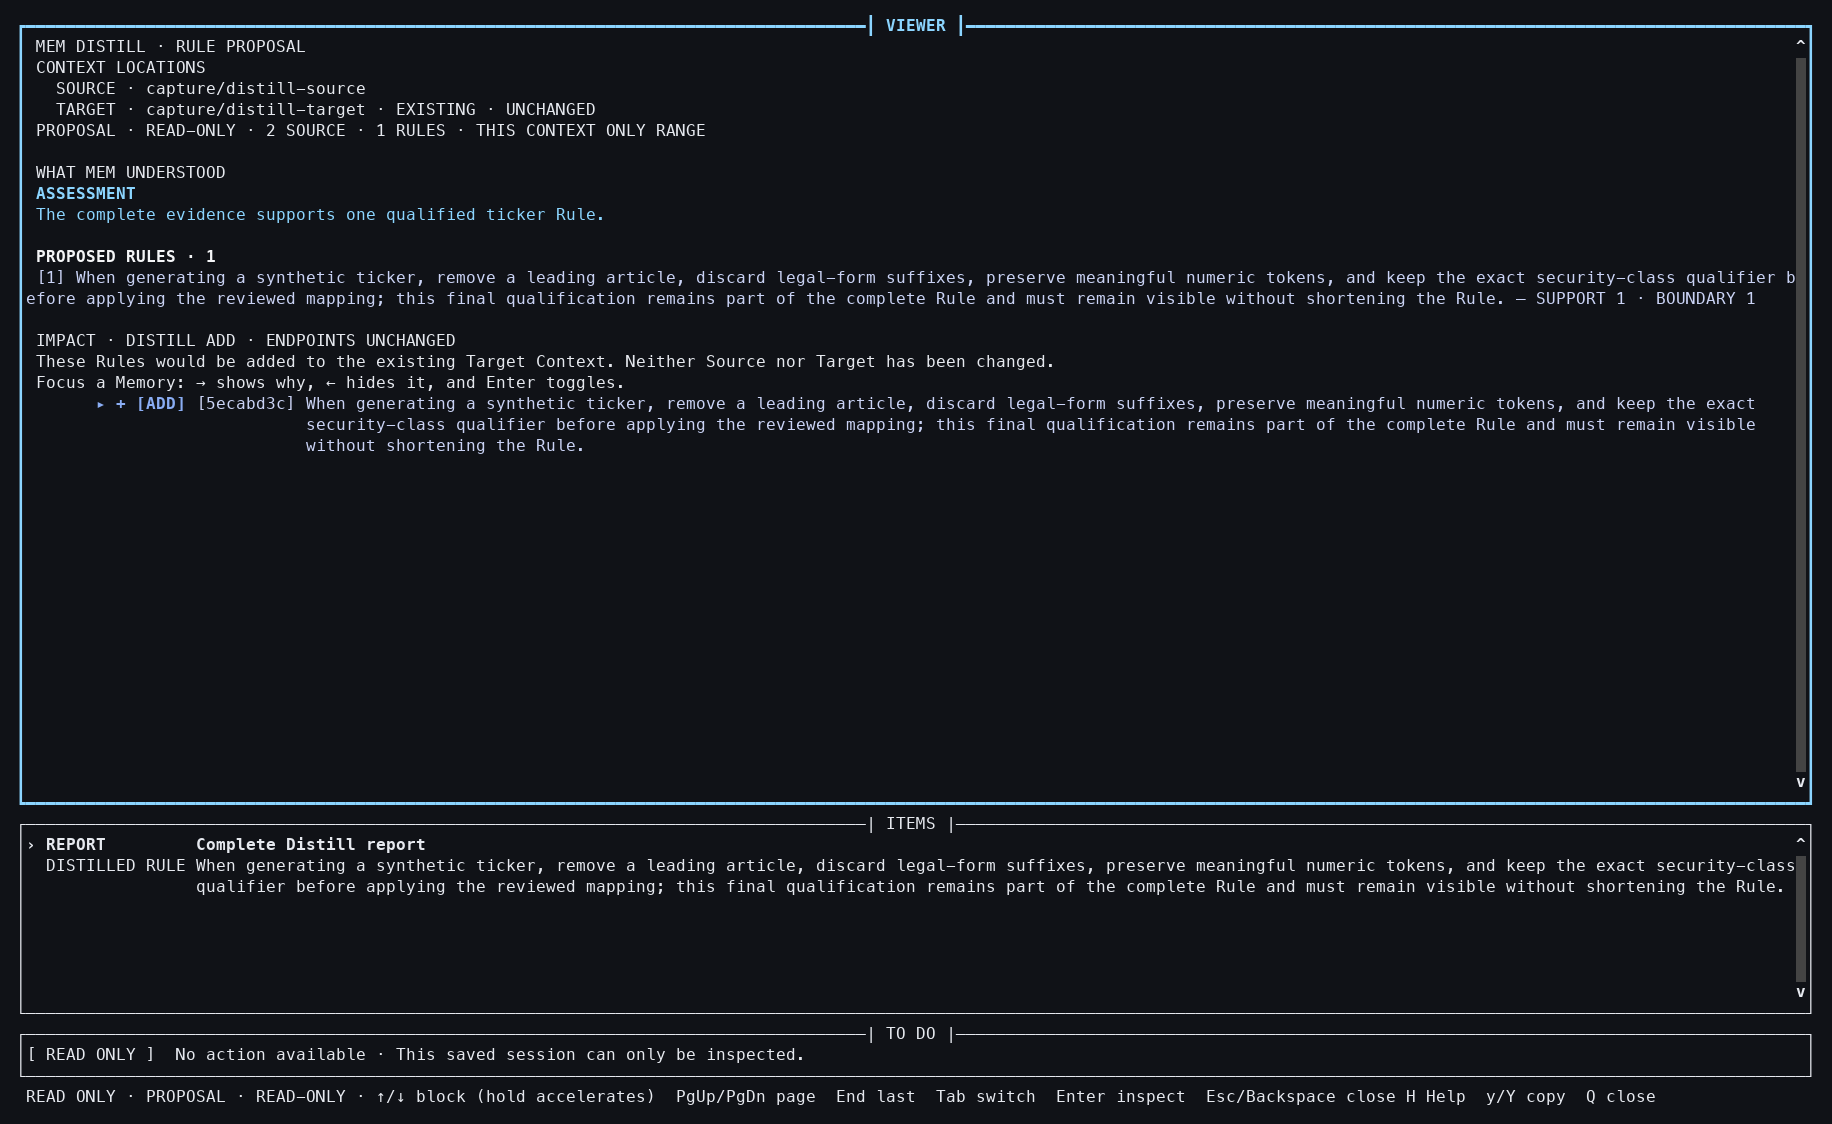
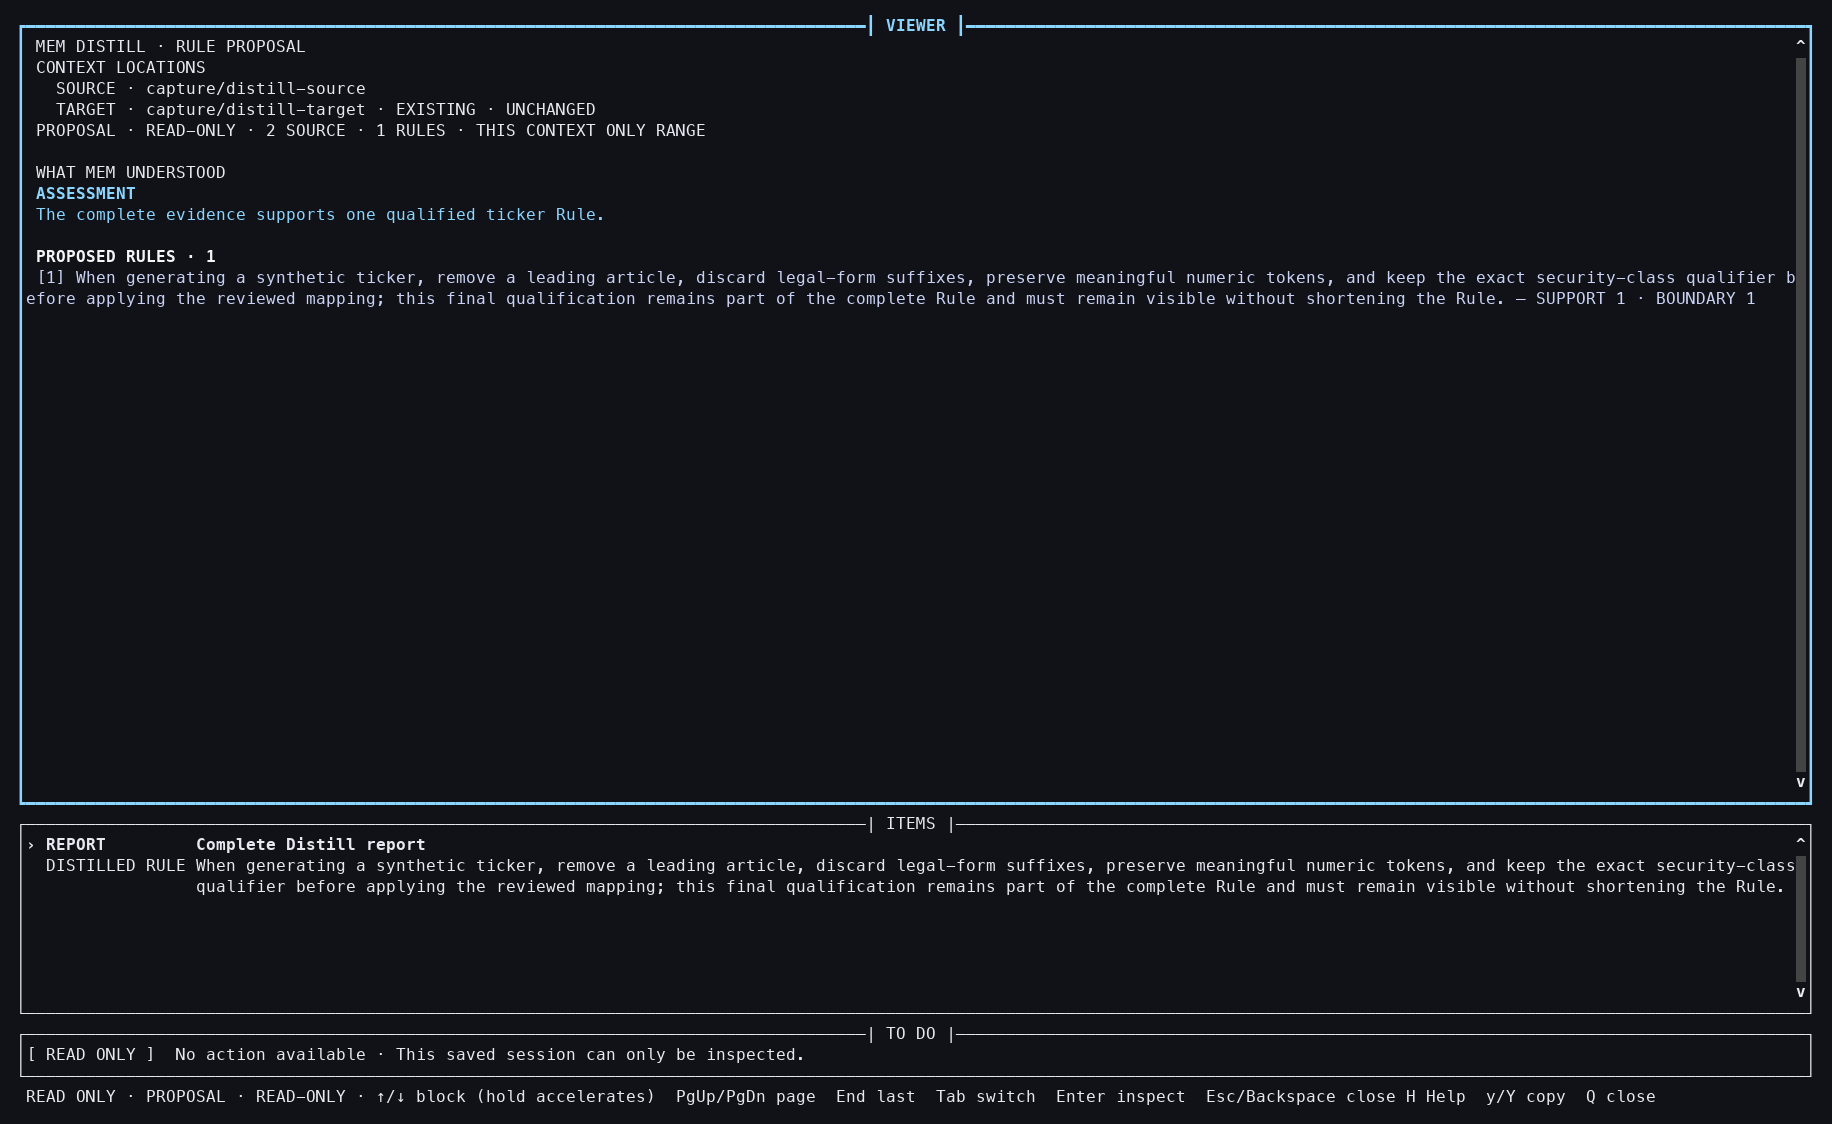
Keep Rule previews to one proposal catalog
Distill and Goal-to-Rules Elaborate now render generated Rules only under PROPOSED RULES. Their read-only Impact and generic Results ledgers are hidden because they repeated the same complete Memories as [ADD] rows without adding a decision boundary.

Rule detail, rationale, evidence, copy data, endpoint state, and close-time immutability checks remain available. Rules-to-Cases and mutation-oriented operations keep their distinct Impact ledgers. Tests and 180x52 color PTY evidence cover the single-catalog display and the retained Case boundary.

Changed region(s): [[0.0311, 0.2802, 0.6534, 0.4048], [0.6845, 0.3425, 0.9023, 0.4048], [0.6534, 0.3737, 0.6845, 0.4048]]

diff --git a/tests/test_compact_semantic_rule_rows.py b/tests/test_compact_semantic_rule_rows.py
@@ -67,6 +67,25 @@ class _LongElaborateProvider:
         )
 
 
+class _CaseElaborateProvider:
+    def complete(self, prompt, *, operation, output_schema=None):
+        assert operation == ELABORATE_OPERATION
+        return json.dumps(
+            {
+                "overview": "One boundary Case probes the supplied Rule.",
+                "cases": [
+                    {
+                        "proposition": "A preferred share class remains explicit.",
+                        "expected": "Keep the class qualifier.",
+                        "rationale": "The class can identify another security.",
+                        "case_role": "BOUNDARY",
+                        "source_rule_index": 1,
+                    }
+                ],
+            }
+        )
+
+
 def _distill_result(isolated_store):
     store = MemoryStore()
     source = ops.init("compact-rules/source")
@@ -110,6 +129,11 @@ def test_distill_impact_rule_row_is_compact_without_losing_detail(
 
     assert row == f"[1] {LONG_RULE} — SUPPORT 1 · BOUNDARY 1"
     assert "…" not in row
+    assert rendered.count(LONG_RULE) == 1
+    assert "IMPACT · DISTILL ADD" not in rendered
+    assert "[ADD]" not in rendered
+    assert presentation.view.show_results is False
+    assert presentation.show_impact_ledger is False
     assert presentation.view.items[0].summary == (
         "The full rationale remains in Rule detail."
     )
@@ -138,9 +162,34 @@ def test_elaborate_rule_rows_keep_complete_unverified_content() -> None:
         if line.strip().startswith("[1] ")
     ) == expected
     assert "…" not in expected
+    assert impact.count(LONG_RULE) == 1
+    assert "PROPOSED RULES · 1" in impact
+    assert "IMPACT · ELABORATE ADD" not in impact
+    assert "[ADD]" not in impact
+    assert presentation.view.show_results is False
+    assert presentation.show_impact_ledger is False
     assert presentation.view.items[0].summary == (
         "The full unverified rationale remains in detail."
     )
     complete_copy = project_elaborate_clipboard(result, whole_document=True).text
     assert "PROPOSAL DETAILS" in complete_copy
     assert "WHY ·" in complete_copy
+
+
+def test_elaborate_case_impact_keeps_its_distinct_effect_projection() -> None:
+    result = execute_elaborate(
+        ElaborateRequest(rules=("Preserve an exact security class.",)),
+        provider_factory=_CaseElaborateProvider,
+    )
+    presentation = elaborate_impact_presentation(
+        result,
+        source_name="compact-rules/rules",
+        target_name="compact-rules/target",
+    )
+    rendered = render_impact_session_snapshot(presentation)
+
+    assert presentation.view.list_label == "UNVERIFIED PROPOSALS"
+    assert presentation.view.show_results is True
+    assert presentation.show_impact_ledger is True
+    assert "IMPACT · ELABORATE ADD · ENDPOINTS UNCHANGED" in rendered
+    assert "[ADD]" in rendered

diff --git a/memcommit/commands/impact_sessions.py b/memcommit/commands/impact_sessions.py
@@ -32,6 +32,13 @@ class ImpactSessionPresentation:
     controller: ImpactController
     report_text: str = ""
     handoff_available: bool = True
+    show_impact_ledger: bool = True
+
+    @property
+    def visible_impact_controller(self) -> ImpactController | None:
+        """Return the effect ledger only when it adds a distinct reading."""
+
+        return self.controller if self.show_impact_ledger else None
 
 
 def update_impact_presentation(
@@ -170,13 +177,13 @@ def render_impact_session_snapshot(
             presentation.view,
             presentation.report_text,
             read_only=True,
-            impact_controller=presentation.controller,
+            impact_controller=presentation.visible_impact_controller,
         )
     else:
         fragments = resolution_report_fragments(
             presentation.view,
             read_only=True,
-            impact_controller=presentation.controller,
+            impact_controller=presentation.visible_impact_controller,
         )
     rendered = "".join(
         text for style, text in fragments if style != "[SetCursorPosition]"
@@ -212,7 +219,7 @@ def run_impact_session_workbench(
             if presentation.handoff_available
             else None
         ),
-        impact_controller=presentation.controller,
+        impact_controller=presentation.visible_impact_controller,
     )
     if action.kind == "HANDOFF" and presentation.handoff_available:
         return True

diff --git a/memcommit/commands/impact_process_local.py b/memcommit/commands/impact_process_local.py
@@ -334,6 +334,10 @@ def distill_impact_presentation(
         empty_message="No evidence-supported Rules were proposed.",
         results_label="PROPOSED RESULT MEMORIES",
         results=results,
+        # The Rule catalog is the proposal itself. Repeating the same Memories
+        # below as an effect ledger obscures the content without adding a
+        # distinct decision or mutation boundary.
+        show_results=False,
     )
     return ImpactSessionPresentation(
         view=view,
@@ -353,6 +357,7 @@ def distill_impact_presentation(
             ),
         ),
         handoff_available=False,
+        show_impact_ledger=False,
     )
 
 
@@ -570,11 +575,14 @@ def elaborate_impact_presentation(
         overview_sections=(
             ResolutionOverviewSection("assessment", "ASSESSMENT", analysis.overview),
         ),
-        list_label="UNVERIFIED PROPOSALS",
+        list_label=(
+            "PROPOSED RULES" if rules_direction else "UNVERIFIED PROPOSALS"
+        ),
         items=items,
         empty_message="No Elaborate proposals were returned.",
         results_label="PROPOSED ADD MEMORIES",
         results=results,
+        show_results=not rules_direction,
     )
     return ImpactSessionPresentation(
         view=view,
@@ -587,6 +595,7 @@ def elaborate_impact_presentation(
             ),
         ),
         handoff_available=False,
+        show_impact_ledger=not rules_direction,
     )
 
 

diff --git a/docs/screenshots/semantic-rule-rows-20260820/capture.py b/docs/screenshots/semantic-rule-rows-20260820/capture.py
@@ -188,11 +188,7 @@ def _capture(operation: str, root: Path, number: int) -> None:
         child.expect("IMPACT .* " + operation.upper())
         _BASE._settle(child, seconds=0.25)
         _BASE._snapshot(recorder, f"{number:02d}-{operation}-impact-entry")
-        child.expect(
-            "PROPOSED RULES"
-            if operation == "distill"
-            else "UNVERIFIED PROPOSALS"
-        )
+        child.expect("PROPOSED RULES")
         child.expect("without shortening the Rule")
         _BASE._settle(child, seconds=0.45)
         _BASE._snapshot(recorder, f"{number + 1:02d}-{operation}-complete-rule-row")
@@ -233,6 +229,10 @@ def main() -> None:
             raise RuntimeError(f"Complete Rule tail is absent from {path.name}.")
         if "Rule.…" in text or "Rule…" in text:
             raise RuntimeError(f"Rule content was shortened in {path.name}.")
+        if "IMPACT · DISTILL ADD" in text or "IMPACT · ELABORATE ADD" in text:
+            raise RuntimeError(f"Duplicate Impact ledger remains in {path.name}.")
+        if "[ADD]" in text:
+            raise RuntimeError(f"Duplicate Add row remains in {path.name}.")
 
 
 if __name__ == "__main__":

diff --git a/tests/test_impact_process_local.py b/tests/test_impact_process_local.py
@@ -335,9 +335,10 @@ def test_distill_impact_marks_the_result_not_created_and_source_unchanged() -> N
         )
     )
 
-    assert "IMPACT · DISTILL RESULT · SOURCE UNCHANGED" in rendered
     assert "RESULT · impact/rules · NOT CREATED" in rendered
-    assert "[ADD]" in rendered
+    assert "PROPOSED RULES · 1" in rendered
+    assert "IMPACT · DISTILL" not in rendered
+    assert "[ADD]" not in rendered
     assert "Prefer a quiet setting when conversation is the" in rendered
     assert "purpose." in rendered
     assert "[ APPLY? ]" not in rendered
@@ -434,8 +435,9 @@ def test_distill_route_leaves_the_proposed_result_uncreated(
     )
 
     assert result.exit_code == 0, result.output + result.stderr
-    assert "IMPACT · DISTILL RESULT · SOURCE UNCHANGED" in result.output
     assert "NOT CREATED" in result.output
+    assert "PROPOSED RULES · 1" in result.output
+    assert "IMPACT · DISTILL" not in result.output
     assert not store.context_exists("impact/distill-result")
     assert context_record_digest(store.load_direct(source.name)) == before
 

diff --git a/tests/test_semantic_add_commands.py b/tests/test_semantic_add_commands.py
@@ -272,7 +272,11 @@ def test_impact_endpoint_preview_never_adds(
     assert result.exit_code == 0, result.output
     assert f"SOURCE · {source.name}" in result.output
     assert f"TARGET · {target.name} · EXISTING · UNCHANGED" in result.output
-    assert "ENDPOINTS UNCHANGED" in result.output
+    if operation == "distill":
+        assert "PROPOSED RULES" in result.output
+        assert "IMPACT · DISTILL ADD" not in result.output
+    else:
+        assert "ENDPOINTS UNCHANGED" in result.output
     assert context_record_digest(store.load_direct(source.name)) == before_source
     assert context_record_digest(store.load_direct(target.name)) == before_target
     assert store.list_checkpoints(target.name) == []

diff --git a/docs/screenshots/semantic-rule-rows-20260820/README.md b/docs/screenshots/semantic-rule-rows-20260820/README.md
@@ -4,7 +4,9 @@ This ordered set records Distill and Goal-to-Rules Elaborate after their
 proposal catalogs adopted the content-first `[N] CONTENT — METADATA` grammar.
 The deterministic providers deliberately return a Rule whose safety
 qualification appears at its end. Every capture retains that ending instead
-of replacing it with an ellipsis.
+of replacing it with an ellipsis. `PROPOSED RULES` is the only default result
+catalog: the same generated Memory is not repeated in an `IMPACT`/`[ADD]`
+ledger underneath it.
 
 ## Reproduction frame
 
@@ -30,11 +32,11 @@ python docs/screenshots/semantic-rule-rows-20260820/capture.py
 | Image | Exact command / preceding input | Visible boundary | Durable mutation |
 |---|---|---|---|
 | `01-distill-impact-entry.png` | `mem impact distill --from capture/distill-source --to capture/distill-target` | Exact Source and existing Target are frozen before inference | None |
-| `02-distill-complete-rule-row.png` | Provider returns one long evidence-bound Rule | One logical `[1] … — SUPPORT 1 · BOUNDARY 1` row; the final `without shortening the Rule.` text remains present | None |
+| `02-distill-complete-rule-row.png` | Provider returns one long evidence-bound Rule | One logical `[1] … — SUPPORT 1 · BOUNDARY 1` row; the final text remains present and no duplicate `IMPACT`/`[ADD]` block follows | None |
 | `03-distill-rule-detail.png` | `Tab`, `Down`, `Enter` | Full rationale plus exact SUPPORT/BOUNDARY UID prefixes remain available in detail | None |
 | `04-distill-close-verification.png` | `Q` | Both endpoint digests are unchanged; Target has zero checkpoints; complete Rule tail is reasserted | None |
 | `05-elaborate-impact-entry.png` | `mem impact elaborate --from capture/elaborate-source --to capture/elaborate-target --as goal` | The single direct Source Memory is explicitly interpreted as a Goal | None |
-| `06-elaborate-complete-rule-row.png` | Provider returns one long unverified Rule | One logical `[1] … — SUGGESTED · UNVERIFIED` row; complete tail remains present | None |
+| `06-elaborate-complete-rule-row.png` | Provider returns one long unverified Rule | `PROPOSED RULES` contains one logical `[1] … — SUGGESTED · UNVERIFIED` row; no duplicate `IMPACT`/`[ADD]` block follows | None |
 | `07-elaborate-rule-detail.png` | `Tab`, `Down`, `Enter` | The unverified rationale remains available under `WHY THIS NEEDS REVIEW` | None |
 | `08-elaborate-close-verification.png` | `Q` | Both endpoint digests are unchanged; Target has zero checkpoints; complete Rule tail is reasserted | None |
 

diff --git a/docs/mem-distill-design-rationale.md b/docs/mem-distill-design-rationale.md
@@ -110,6 +110,15 @@ the semantic boundary that makes an evidence-derived Rule safe. Focused Rule
 copy and whole-proposal copy retain the full rationale and exact evidence UID
 detail even though the default catalog projects only evidence counts.
 
+The `PROPOSED RULES` catalog is the single default report location for these
+generated Memories. The read-only Impact route therefore suppresses its
+generic `IMPACT`/`[ADD]` effect ledger and Results block for Distill: both
+would repeat the same complete Rules without introducing another decision.
+This is a presentation boundary, not a loss of proposal data. Rule detail and
+copy still contain rationale and evidence, while the Context-location header
+and close-time digest checks continue to prove that Source and Target were not
+changed. Mutation-oriented operations retain their distinct Impact ledgers.
+
 ## Interfaces and interaction
 
 Direct standalone Add is line-oriented by default and rejects `--tui`; the

diff --git a/docs/mem-elaborate-design-rationale.md b/docs/mem-elaborate-design-rationale.md
@@ -94,6 +94,15 @@ here because the omitted tail may carry the condition that distinguishes an
 unverified suggestion from a broader claim. Focused and whole-proposal copy
 retain the full rationale even though the default catalog keeps it in detail.
 
+For Goal-to-Rules, `PROPOSED RULES` is also the single default report location
+for generated Memories. The read-only Impact route hides the generic
+`IMPACT`/`[ADD]` effect ledger and Results block because they merely restate
+that Rule catalog; rationale remains available in detail and copy, and exact
+endpoint immutability remains visible in the Context-location header and
+close-time digest verification. Rules-to-Cases keeps its separate proposal and
+Impact projections because the compact Rule-only catalog contract does not
+apply to Case role, expected-result, and Source-Rule fields.
+
 ## Ground route
 
 Ground CLI accepts one exact saved Ground and either `--from-goal` or
